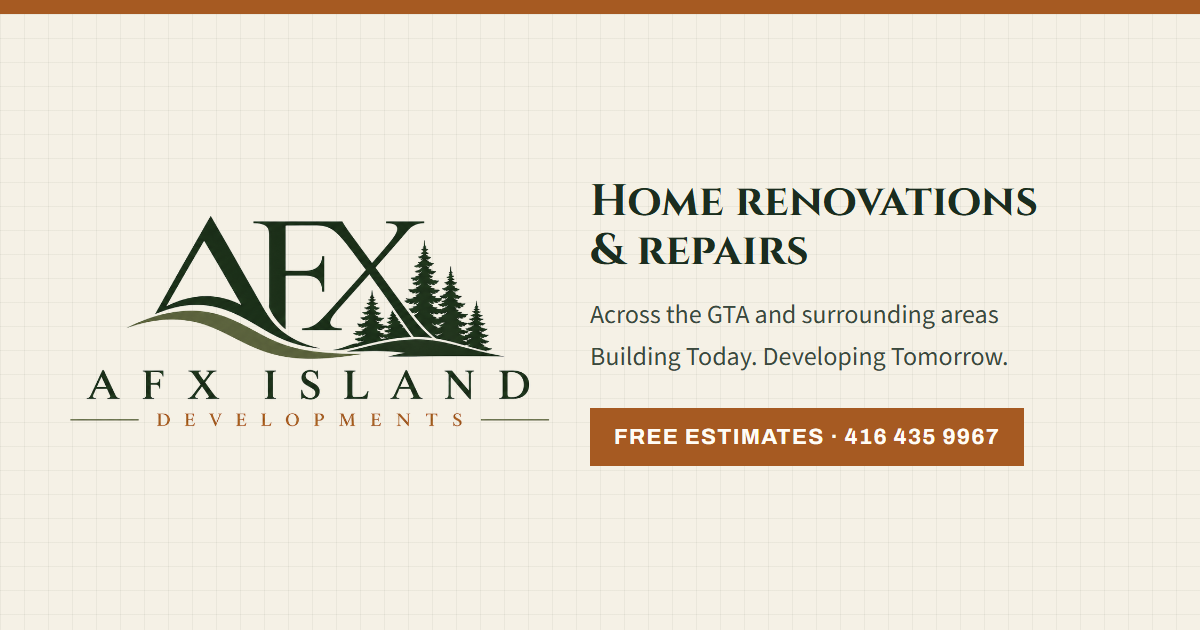
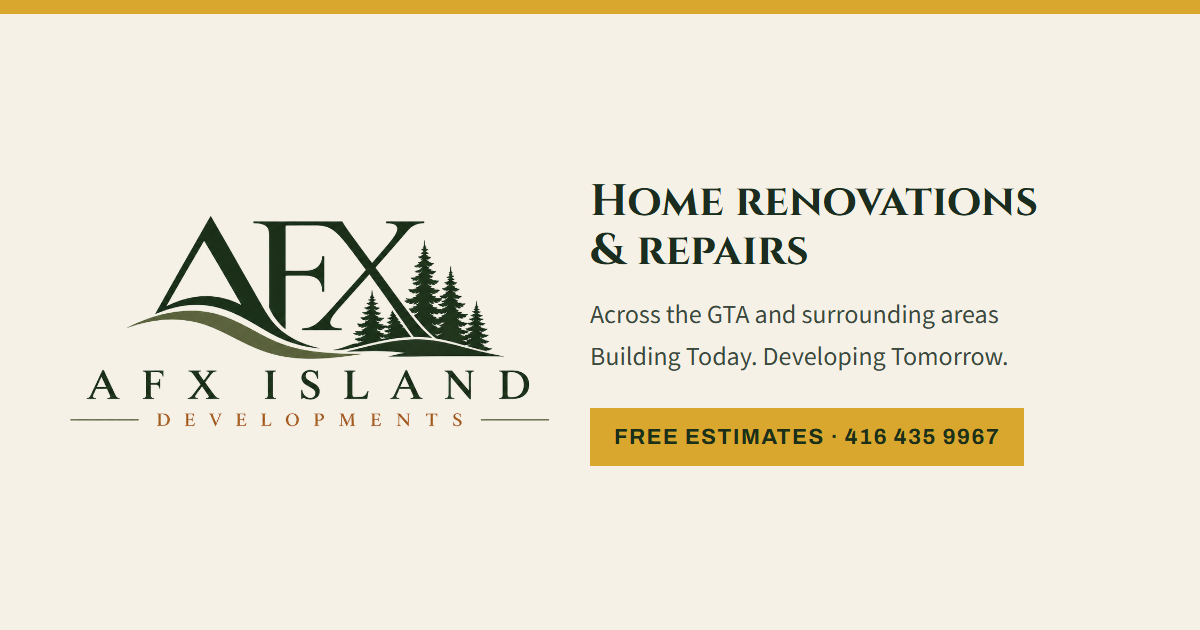
Amber gold accent, longer eased fades, fix footer fade overlap
- Switch the accent from copper to amber gold with dark text on gold buttons and tags
- Readable dark gold for text accents on light backgrounds; light gold on dark; focus rings 5.65:1 or better
- Longer smoothstep-eased fades for the hero, page headers and footer; next section slides up into the fade
- Fix footer fade overlapping content (flex layout painted it over the CTA/note)
- Redraw the share image in gold without the old grid; update README

Changed region(s): [[0.4933, 0.6333, 0.8633, 0.754], [0.0, 0.0, 1.0, 0.0302]]

diff --git a/css/site.css b/css/site.css
@@ -1,15 +1,15 @@
 /* AFX Island Developments: flat theme, no animation.
-   Colours are sampled from the logo: forest #1c3019, olive #5b623d, copper #a7612b.
+   Greens are sampled from the logo (forest #1c3019, olive #5b623d). The accent is amber gold; the logo's own copper is #a7612b.
    Light is the default; dark follows the visitor's system setting unless they use the switch. */
 :root {
-  --forest: #1c3019; --olive: #5b623d; --copper: #a7612b; --copper-dark: #8f4d1b; --copper-light: #e0a068;
+  --forest: #1c3019; --olive: #5b623d; --copper: #d9a62e; --copper-dark: #bf8f1f; --copper-light: #e8bd57; --on-accent: #1c3019;   /* 'copper' is the accent token name: now amber gold */
   --cream: #f4f0e6;            /* the light colour used on the dark bands (header, hero, footer) */
   --on-dark: #d5d6c6;
   /* theme tokens (light) */
   --paper: #e9e2cf; --alt: #ddd5bd; --card: #fbf8f0; --field: #fffdf7;
   --ink: #1c3019; --ink-2: #3b4937; --ink-3: #4f5c4b;
   --edge: #1c3019; --edge-strong: #1c3019; --line: #d6cdb6;
-  --accent-text: #8a4a19; --olive-line: #5b623d; --sel-bg: #1c3019; --sel-fg: #f4f0e6; --err: #a8261e;
+  --accent-text: #6e5208; --olive-line: #5b623d; --sel-bg: #1c3019; --sel-fg: #f4f0e6; --err: #a8261e;
   color-scheme: light;
   --display: 'Archivo', ui-sans-serif, system-ui, sans-serif;
   --serif: 'Cinzel', Georgia, serif;
@@ -20,13 +20,13 @@
   --paper: #0b140a; --alt: #122011; --card: #1b2f1a; --field: #09110a;
   --ink: #eef0e4; --ink-2: #c9d0bf; --ink-3: #9aa795;
   --edge: #3d5638; --edge-strong: #7d9277; --line: #2a3d29;
-  --accent-text: #e0a068; --olive-line: #7f8b55; --sel-bg: #eef0e4; --sel-fg: #1c3019; --err: #ff9b8f;
+  --accent-text: #e8bd57; --olive-line: #7f8b55; --sel-bg: #eef0e4; --sel-fg: #1c3019; --err: #ff9b8f;
   color-scheme: dark; } }
 :root[data-theme="dark"] {
   --paper: #0b140a; --alt: #122011; --card: #1b2f1a; --field: #09110a;
   --ink: #eef0e4; --ink-2: #c9d0bf; --ink-3: #9aa795;
   --edge: #3d5638; --edge-strong: #7d9277; --line: #2a3d29;
-  --accent-text: #e0a068; --olive-line: #7f8b55; --sel-bg: #eef0e4; --sel-fg: #1c3019; --err: #ff9b8f;
+  --accent-text: #e8bd57; --olive-line: #7f8b55; --sel-bg: #eef0e4; --sel-fg: #1c3019; --err: #ff9b8f;
   color-scheme: dark; }
 
 *, *::before, *::after { box-sizing: border-box; }
@@ -37,7 +37,7 @@ img { max-width: 100%; height: auto; }
 a { color: var(--accent-text); text-underline-offset: 3px; }
 a:hover { color: var(--ink); }
 ::placeholder { color: var(--ink-3); opacity: 1; }
-:focus-visible { outline: 3px solid var(--copper); outline-offset: 2px; }
+:focus-visible { outline: 3px solid var(--accent-text); outline-offset: 2px; }
 .dark :focus-visible { outline-color: var(--copper-light); }
 .skip { position: absolute; left: -9999px; top: 8px; z-index: 100; background: var(--forest); color: var(--cream); padding: 10px 14px; font-weight: 700; }
 .skip:focus { left: 8px; }
@@ -57,8 +57,8 @@ p { margin: 0 0 14px; }
 .preview-bar b { font-weight: 800; text-transform: uppercase; letter-spacing: .14em; margin-right: 8px; color: var(--accent-text); }
 
 /* buttons */
-.btn { display: inline-flex; align-items: center; justify-content: center; min-height: 48px; padding: 0 24px; border: 2px solid var(--copper); background: var(--copper); color: #fffdf7; font: 700 14px/1 var(--display); letter-spacing: .1em; text-transform: uppercase; text-decoration: none; cursor: pointer; transition: background-color .15s, border-color .15s, color .15s; }
-.btn:hover { background: var(--copper-dark); border-color: var(--copper-dark); color: #fffdf7; }
+.btn { display: inline-flex; align-items: center; justify-content: center; min-height: 48px; padding: 0 24px; border: 2px solid var(--copper); background: var(--copper); color: var(--on-accent); font: 700 14px/1 var(--display); letter-spacing: .1em; text-transform: uppercase; text-decoration: none; cursor: pointer; transition: background-color .15s, border-color .15s, color .15s; }
+.btn:hover { background: var(--copper-dark); border-color: var(--copper-dark); color: var(--on-accent); }
 .btn.ghost { background: transparent; color: var(--ink); border-color: var(--edge-strong); }
 .btn.ghost:hover { background: var(--sel-bg); color: var(--sel-fg); border-color: var(--sel-bg); }
 .dark .btn.ghost { color: var(--cream); border-color: var(--cream); }
@@ -94,13 +94,17 @@ p { margin: 0 0 14px; }
 
 /* hero */
 /* the dark bands fade smoothly into the page: no edges, no rules */
-.hero, .page-head { --fade: 110px; background: linear-gradient(to bottom,
-  var(--forest) 0, var(--forest) calc(100% - var(--fade)),
-  color-mix(in srgb, var(--forest) 78%, var(--paper)) calc(100% - var(--fade) * .72),
-  color-mix(in srgb, var(--forest) 48%, var(--paper)) calc(100% - var(--fade) * .46),
-  color-mix(in srgb, var(--forest) 20%, var(--paper)) calc(100% - var(--fade) * .22),
+.hero, .page-head { --fade: 190px; background: linear-gradient(to bottom,
+  var(--forest) 0,
+  var(--forest) calc(100% - var(--fade)),
+  color-mix(in srgb, var(--forest) 94%, var(--paper)) calc(100% - var(--fade) * 0.85),
+  color-mix(in srgb, var(--forest) 78%, var(--paper)) calc(100% - var(--fade) * 0.7),
+  color-mix(in srgb, var(--forest) 57%, var(--paper)) calc(100% - var(--fade) * 0.55),
+  color-mix(in srgb, var(--forest) 35%, var(--paper)) calc(100% - var(--fade) * 0.4),
+  color-mix(in srgb, var(--forest) 16%, var(--paper)) calc(100% - var(--fade) * 0.25),
+  color-mix(in srgb, var(--forest) 3%, var(--paper)) calc(100% - var(--fade) * 0.1),
   var(--paper) 100%); color: var(--cream); }
-.hero { position: relative; padding: clamp(28px, 4.5vw, 56px) 0 calc(var(--fade) + 6px); }
+.hero { padding: clamp(28px, 4.5vw, 56px) 0 calc(var(--fade) + 6px); margin-bottom: -80px; }  /* the next section slides up into the fade */
 .hero-grid { display: grid; grid-template-columns: 1.25fr .75fr; gap: 48px; align-items: center; }
 .hero .eyebrow { color: var(--copper-light); }
 .hero h1 { margin: 12px 0 14px; }
@@ -111,18 +115,21 @@ p { margin: 0 0 14px; }
 .facts b { font: 800 17px var(--display); color: var(--cream); margin-right: 4px; }
 
 /* soft fade from the page into the footer */
-.footer-fade { height: 72px; margin-top: clamp(12px, 2vw, 24px); background: linear-gradient(to bottom,
-  var(--paper) 0,
-  color-mix(in srgb, var(--forest) 20%, var(--paper)) 28%,
-  color-mix(in srgb, var(--forest) 48%, var(--paper)) 54%,
-  color-mix(in srgb, var(--forest) 78%, var(--paper)) 78%,
+.footer-fade { height: 150px; margin-top: clamp(12px, 2vw, 24px); background: linear-gradient(to bottom,
+  var(--paper) 0%,
+  color-mix(in srgb, var(--forest) 3%, var(--paper)) 10%,
+  color-mix(in srgb, var(--forest) 16%, var(--paper)) 25%,
+  color-mix(in srgb, var(--forest) 35%, var(--paper)) 40%,
+  color-mix(in srgb, var(--forest) 57%, var(--paper)) 55%,
+  color-mix(in srgb, var(--forest) 78%, var(--paper)) 70%,
+  color-mix(in srgb, var(--forest) 94%, var(--paper)) 85%,
   var(--forest) 100%); }
 
 /* sections */
 .section { padding: clamp(32px, 5vw, 60px) 0 clamp(8px, 1.5vw, 16px); }
 .section-head { display: flex; justify-content: space-between; align-items: baseline; flex-wrap: wrap; gap: 8px 16px; margin-bottom: 22px; }
 .more { font: 700 13px/1 var(--display); letter-spacing: .12em; text-transform: uppercase; }
-.page-head { --fade: 64px; padding: clamp(24px, 4vw, 44px) 0 calc(var(--fade) + 4px); }
+.page-head { --fade: 120px; padding: clamp(24px, 4vw, 44px) 0 calc(var(--fade) + 4px); margin-bottom: -30px; }
 .page-head h1 { font-size: clamp(2.4rem, 1.5rem + 3.4vw, 4rem); margin: 10px 0 12px; }
 .page-head .lede { margin: 0; color: var(--on-dark); }
 .page-head .eyebrow { color: var(--copper-light); }
@@ -130,11 +137,11 @@ p { margin: 0 0 14px; }
 .cta-row { display: flex; justify-content: space-between; align-items: center; flex-wrap: wrap; gap: 16px 32px; margin-top: clamp(32px, 5vw, 52px); }
 .cta-row p { margin: 0; font: 800 clamp(1.3rem, 1rem + 1.2vw, 1.8rem)/1.1 var(--display); font-stretch: 75%; text-transform: uppercase; }
 
-/* cards: tonal plates with one cut corner and a copper edge */
+/* cards: tonal plates with one cut corner and a gold edge */
 .tile, .svc, .proj, .step, .stat, .panel, .faq details { --cut: 30px; background: var(--card); border: 0; border-left: 5px solid var(--copper);
   clip-path: polygon(0 0, calc(100% - var(--cut)) 0, 100% var(--cut), 100% 100%, 0 100%); }
 .tile, .step, .stat, .faq details { --cut: 22px; }
-.tile .n, .svc .n { display: inline-block; align-self: flex-start; margin: 0; padding: 5px 9px 4px; background: var(--copper); color: #fffdf7; font: 700 12px/1 var(--display); letter-spacing: .14em; }
+.tile .n, .svc .n { display: inline-block; align-self: flex-start; margin: 0; padding: 5px 9px 4px; background: var(--copper); color: var(--on-accent); font: 700 12px/1 var(--display); letter-spacing: .14em; }
 
 /* service tiles (home) and cards (services page) */
 .tiles { display: grid; grid-template-columns: repeat(4, 1fr); gap: 14px; }
@@ -205,7 +212,7 @@ p { margin: 0 0 14px; }
 .check span { display: block; padding: 10px 14px; border: 2px solid var(--edge-strong); background: var(--card); font: 600 14.5px/1.1 var(--body); }
 .check:hover span { background: var(--alt); }
 .check input:checked + span { background: var(--sel-bg); color: var(--sel-fg); border-color: var(--sel-bg); }
-.check input:focus-visible + span { outline: 3px solid var(--copper); outline-offset: 2px; }
+.check input:focus-visible + span { outline: 3px solid var(--accent-text); outline-offset: 2px; }
 .field { margin-bottom: 16px; }
 .err:empty { display: none; }
 .row2 { display: grid; grid-template-columns: 1fr 1fr; gap: 0 16px; }
@@ -231,7 +238,7 @@ p { margin: 0 0 14px; }
 .prose h2 { font-size: 1.5rem; margin: 36px 0 8px; }
 .prose ul { margin: 0 0 14px; padding-left: 1.2em; }
 .prose li { margin-bottom: 6px; }
-.prose li::marker { color: var(--copper); }
+.prose li::marker { color: var(--accent-text); }
 .prose code { font: 500 .9em ui-monospace, Consolas, monospace; background: var(--alt); padding: 1px 6px; }
 .updated { margin: 0 0 8px; font-size: 14px; color: var(--ink-3); }
 
@@ -279,7 +286,7 @@ p { margin: 0 0 14px; }
   .foot-grid > :first-child { grid-column: 1 / -1; }
 }
 @media (max-width: 560px) {
-  .hero { --fade: 80px; }
+  .hero { --fade: 120px; margin-bottom: -44px; }
   body { font-size: 16.5px; }
   .logo span { display: none; }
   .tiles { grid-template-columns: 1fr 1fr; gap: 10px; }

diff --git a/README.md b/README.md
@@ -43,9 +43,9 @@ The live site refreshes in about a minute.
 
 ## Design
 
-One flat look with no motion. Colours come from the logo (`css/site.css`, `:root`): forest `#1c3019`, olive `#5b623d`, copper `#a7612b`, cream `#f4f0e6`. Headings are condensed Archivo in upper case, body is Source Sans 3, the wordmark uses Cinzel. The page has no hard edges or divider lines: the dark header/hero (and the dark page headers on inner pages) fade smoothly into the page colour, and the page fades into the footer (`--fade` in `.hero, .page-head`, and `.footer-fade`). Backgrounds stay quiet so the cards are the brightest surfaces on the page and the eye lands on what the business offers: the page canvas is a slightly deeper tone (`--paper`) and the cards use the lightest one (`--card`).
+One flat look with no motion. Greens come from the logo (`css/site.css`, `:root`): forest `#1c3019` and olive `#5b623d`. The accent is amber gold: `--copper: #d9a62e` (the token keeps its old name), with `--copper-dark` for hover, `--copper-light` for gold on dark areas and `--accent-text: #6e5208` for gold text on light areas. Text on gold buttons and tags is forest green (`--on-accent`). The logo's own copper is `#a7612b`; it stays in the logo images. Focus rings use `--accent-text` because plain gold is too faint on the light background. Headings are condensed Archivo in upper case, body is Source Sans 3, the wordmark uses Cinzel. The page has no hard edges or divider lines: the dark header/hero (and the dark page headers on inner pages) fade smoothly into the page colour, and the page fades into the footer (`--fade` in `.hero, .page-head`, and `.footer-fade`). Backgrounds stay quiet so the cards are the brightest surfaces on the page and the eye lands on what the business offers: the page canvas is a slightly deeper tone (`--paper`) and the cards use the lightest one (`--card`).
 
-**Cards:** every card (home tiles, service cards, project cards, steps, stats, estimate panels) is a tonal plate with a copper left edge and one cut corner. They (and the FAQ questions) share one rule in `css/site.css` (the block starting `/* cards: tonal plates ... */`); change `--cut` to resize the cut corner. The cut is made with `clip-path`, which also clips outlines, so keyboard focus on the home tiles is drawn inside the plate.
+**Cards:** every card (home tiles, service cards, project cards, steps, stats, estimate panels) is a tonal plate with a gold left edge and one cut corner. They (and the FAQ questions) share one rule in `css/site.css` (the block starting `/* cards: tonal plates ... */`); change `--cut` to resize the cut corner. The cut is made with `clip-path`, which also clips outlines, so keyboard focus on the home tiles is drawn inside the plate.
 
 **Light and dark:** the site follows the visitor's system setting until they use the switch in the header; the choice is saved in `localStorage` as `afx-theme`. The header, hero and footer stay forest green in both themes, so their text is always the light cream colour (including the logo name on hover). Contrast was checked against WCAG AA in both themes.
 
